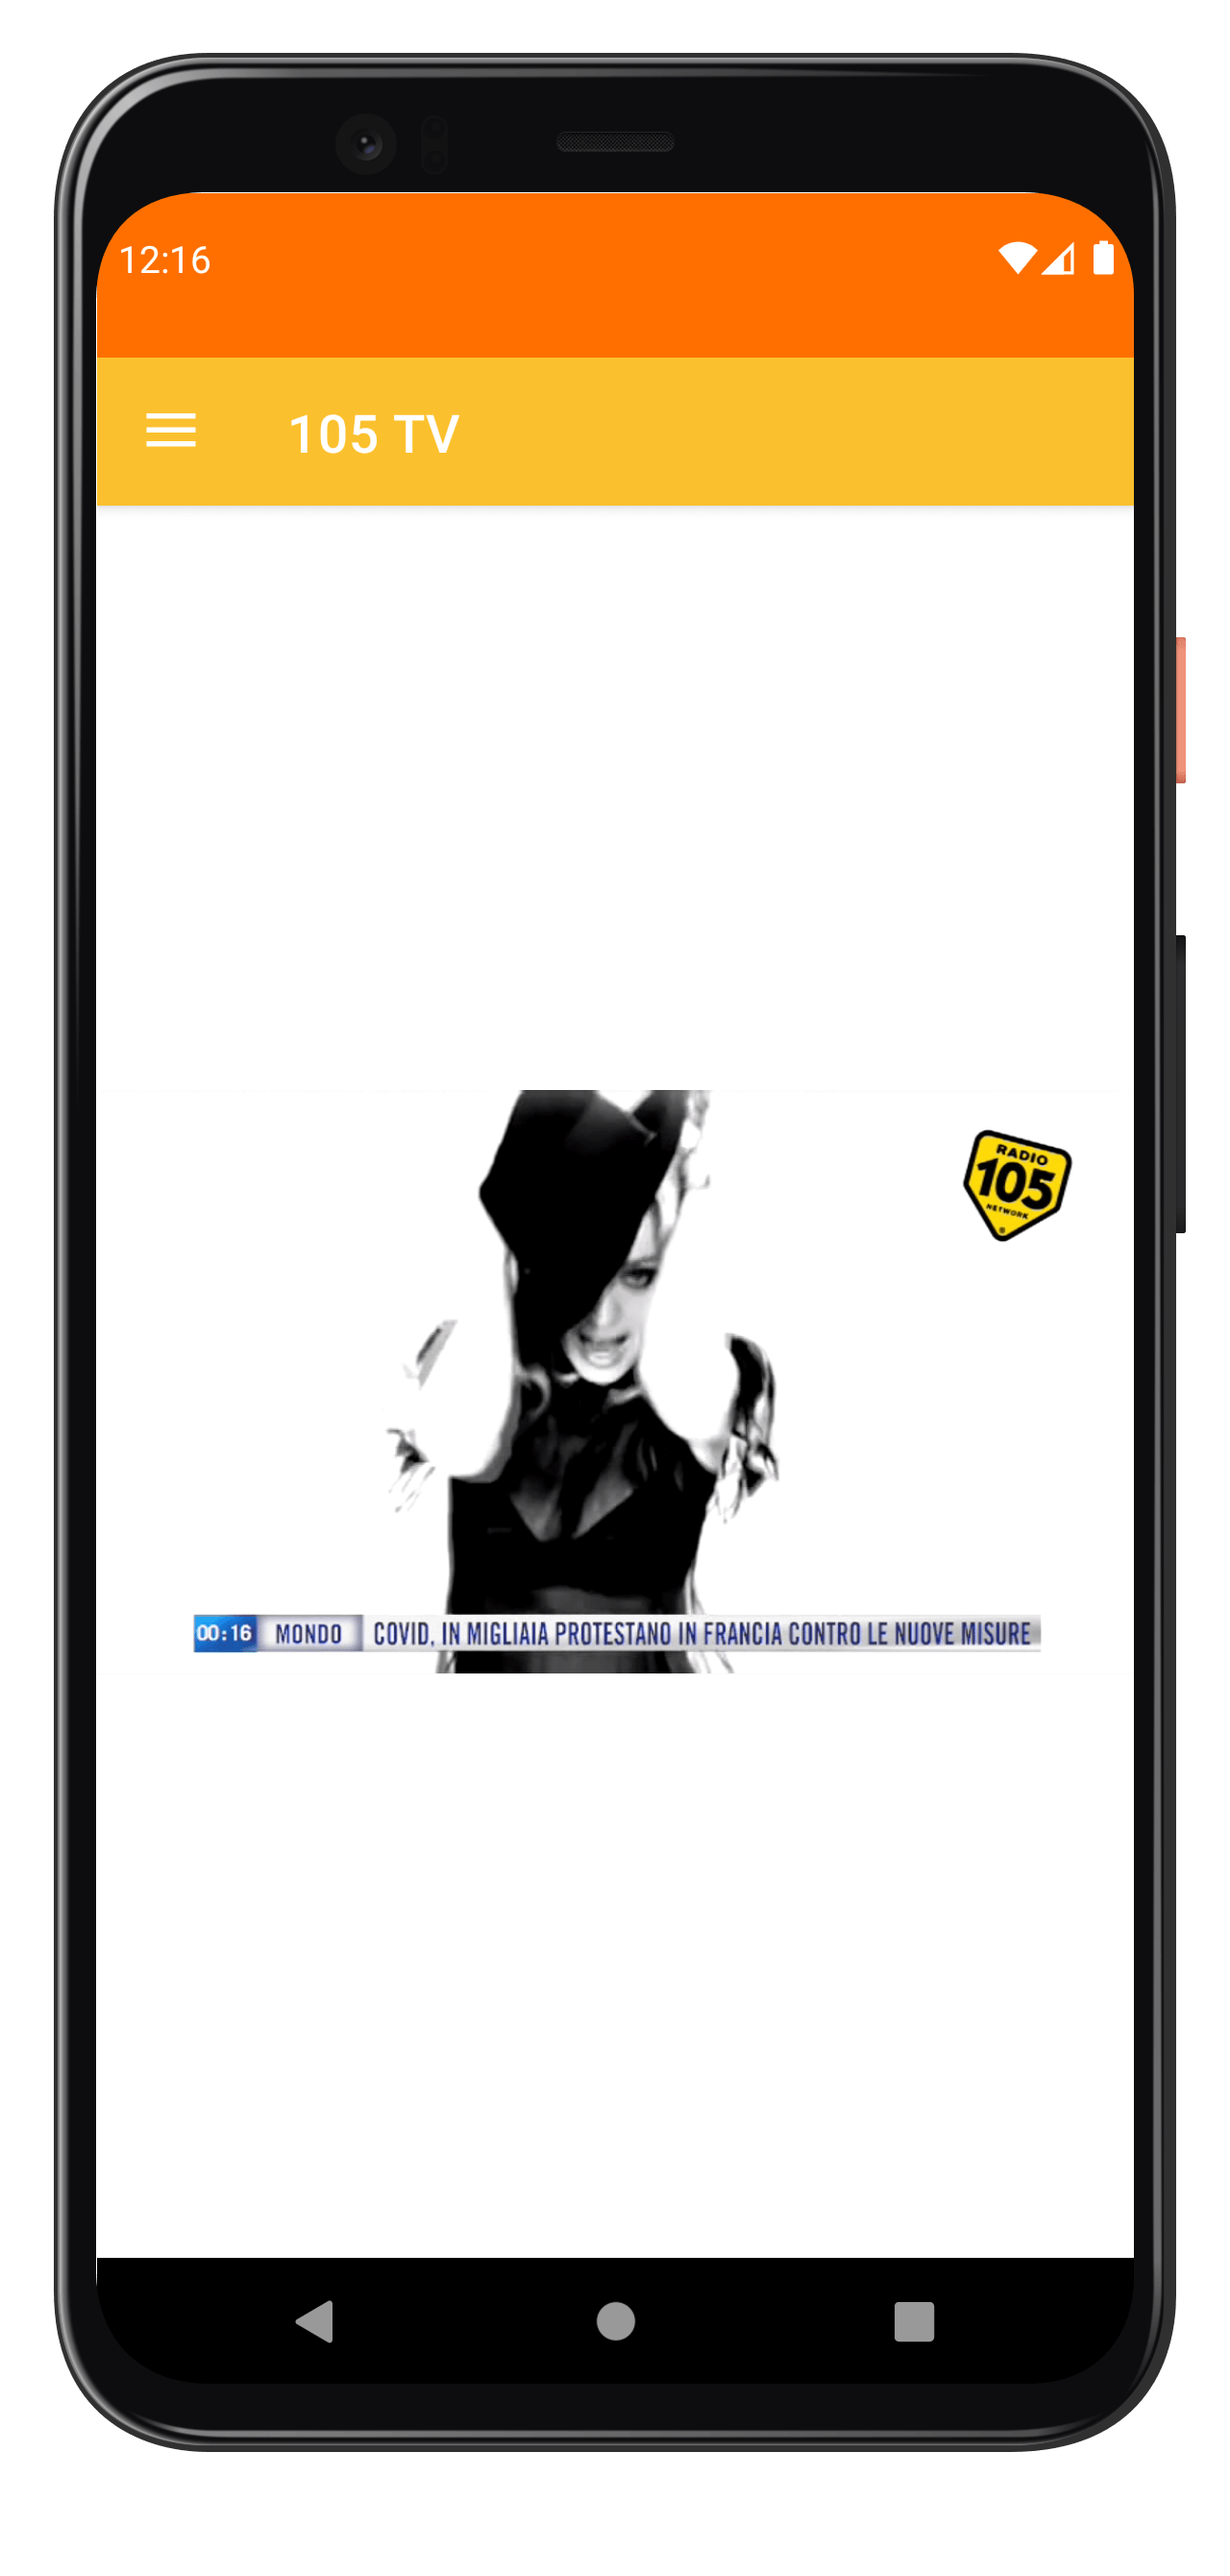
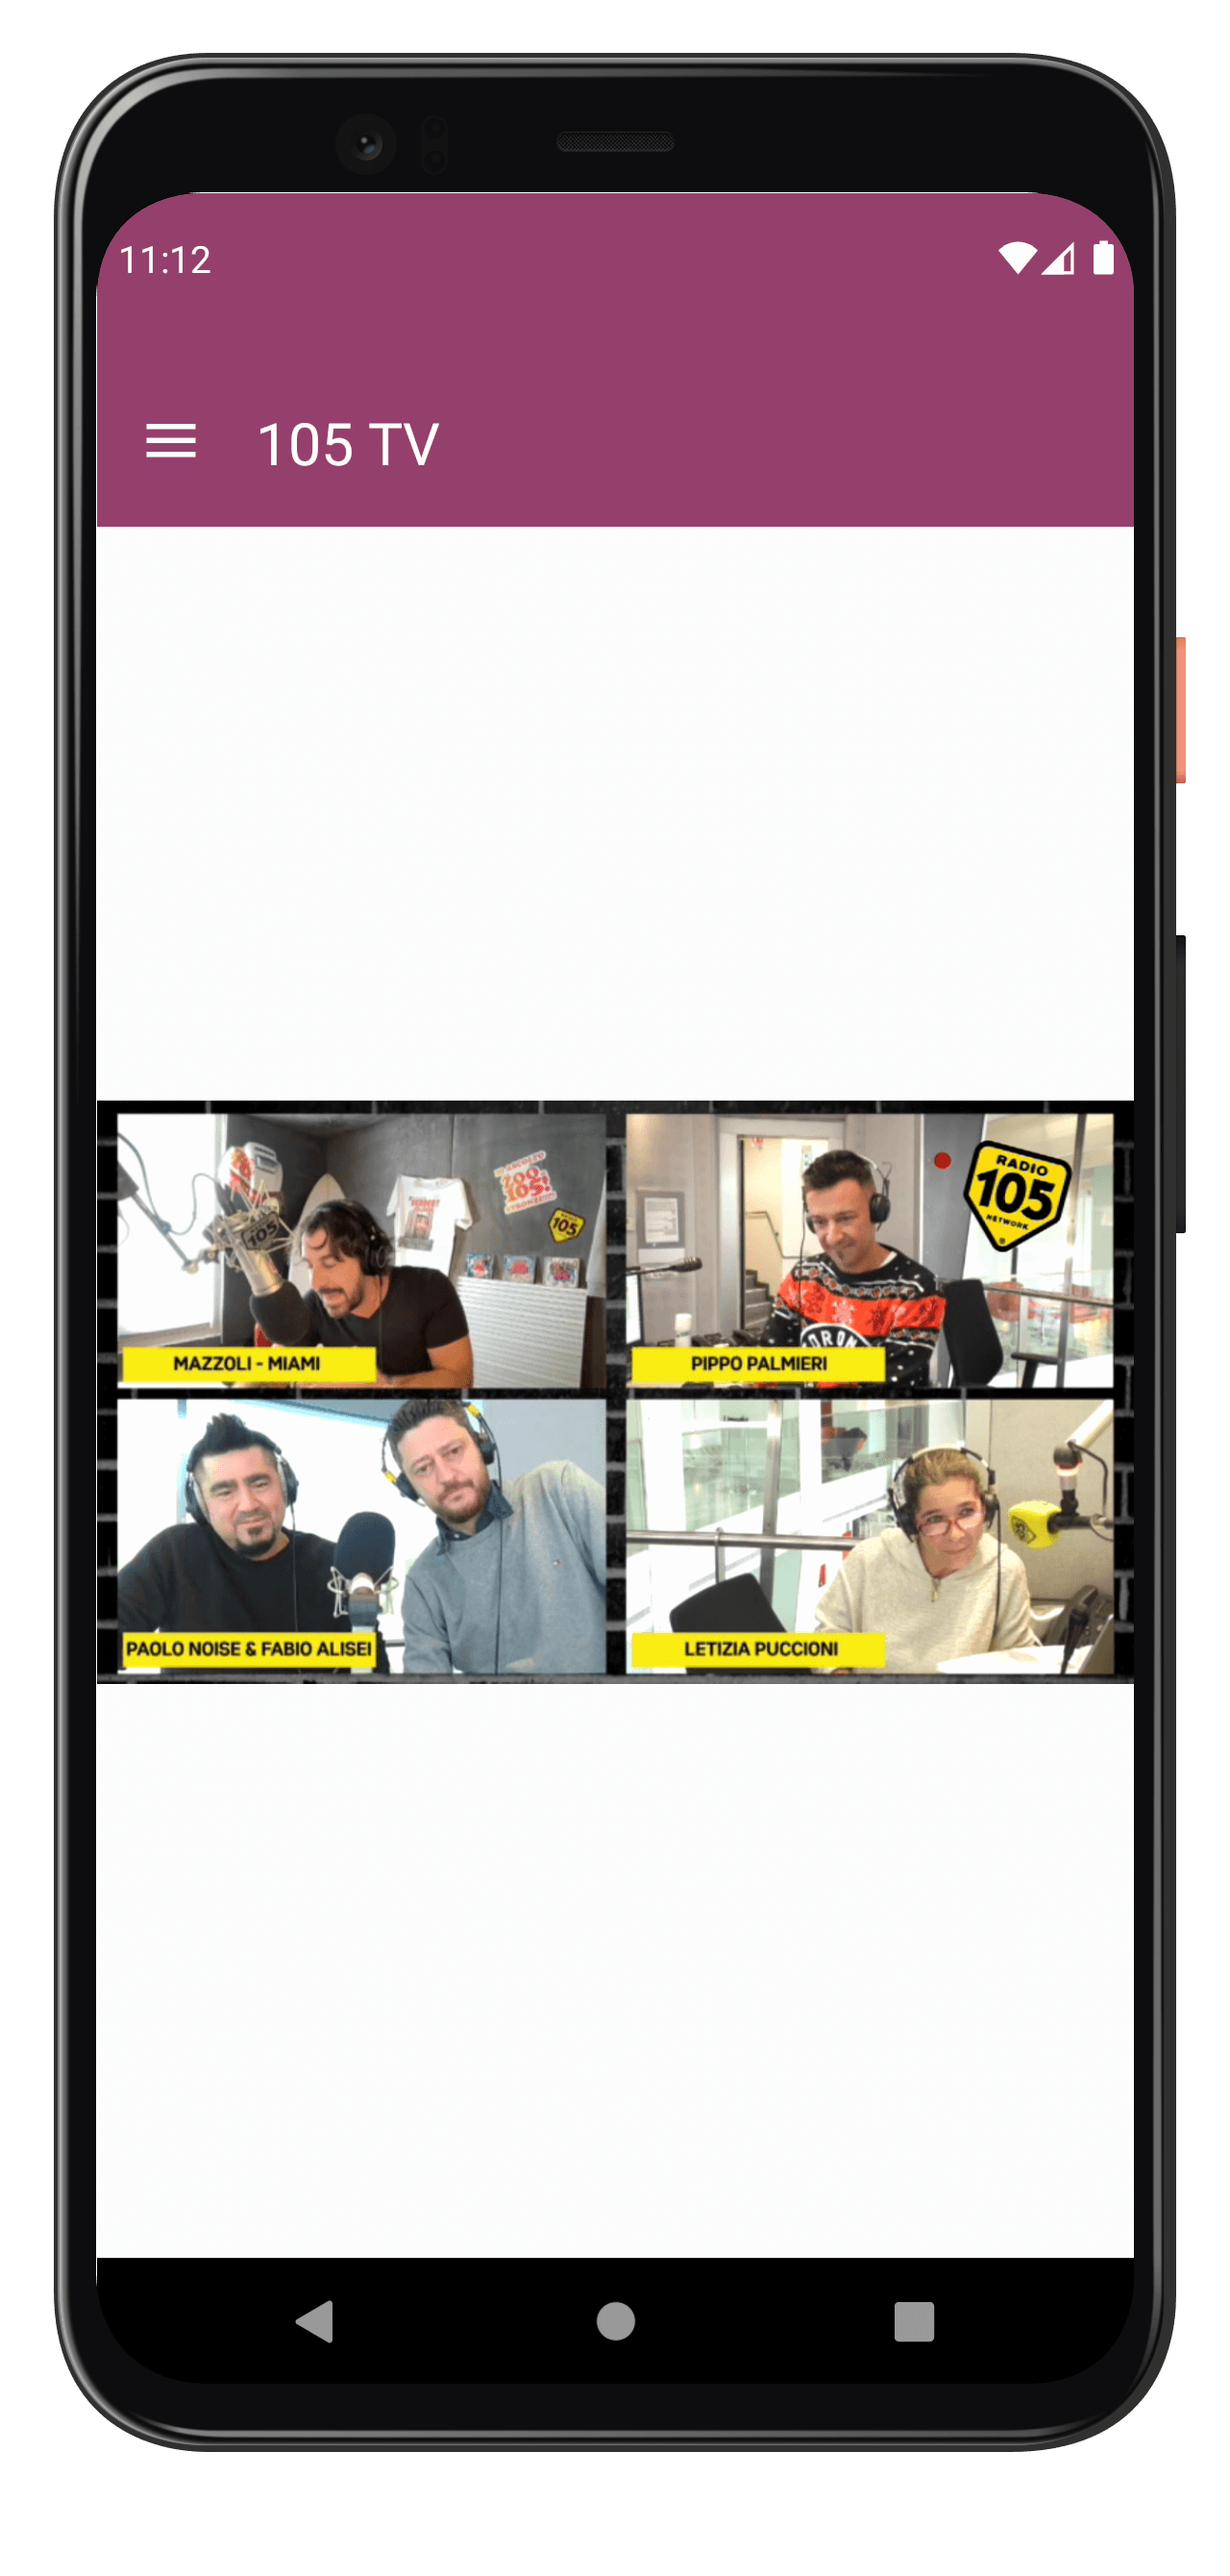
Update Readme and screenshots
Added Material You screenshots for Android 12

Changed region(s): [[0.0625, 0.4026, 0.9375, 0.6813], [0.0625, 0.0619, 0.9375, 0.2168]]

diff --git a/Readme.md b/Readme.md
@@ -18,10 +18,28 @@
 <br />
 <br />
 
-<p align="center"><img src="images/Screenshot_1.png" width="200"> <img src="images/Screenshot_8.png" width="200"> <img src="images/Screenshot_9.png" width="200"></p>
+#### Screenshots
+
+<p align="center">
+<img src="images/Screenshot_1.png" width="180">
+<img src="images/Screenshot_8.png" width="180">
+<img src="images/Screenshot_9.png" width="180">
+<img src="images/Screenshot_11.png" width="180">
+</p>
 
 <br />
 <br />
+
+#### Material You on Android 12
+
+<p align="center">
+<img src="images/Material_you_1.png" height="125" >
+<img src="images/Material_you_2.png" height="125" >
+<img src="images/Material_you_3.png" height="125" >
+<img src="images/Material_you_4.png" height="125" >
+<img src="images/Material_you_5.png" height="125" >
+<img src="images/Material_you_6.png" height="125" >
+</p>
 
 ### Features:
 
@@ -32,7 +50,7 @@
 * The radio streaming can be controlled with wearable devices or Android Auto
 * Can be installed on android TV --> Tested with Android TV emulator
 * Compatible with wearable devices --> Tested with Wear OS emulator and with Xiaomi Band 4 and 5
-* Fully compatible with Android 12 and Material you
+* Fully compatible with Android 12 and [Material you](https://material.io/blog/announcing-material-you)
 * The version downloadable from Play Store use the new [Android App Bundle](https://developer.android.com/platform/technology/app-bundle) format
 
 <br />
